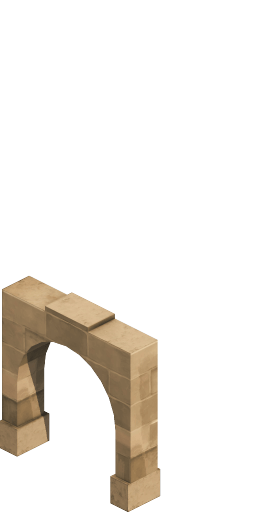
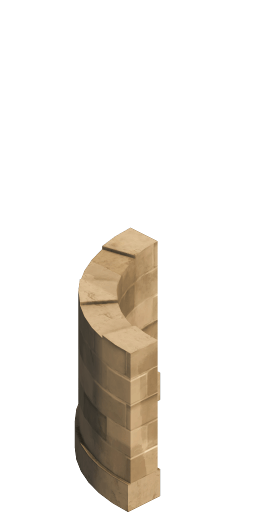
Round 8: 4-directional hops, batch hunt slots, HUD bars, panel layout
- Movement is strictly 4-directional: one axis per step, corners turn
  on separate ticks — cats hop tile to tile, no diagonal cutting
- Idle wander chance capped at 8%/tick so time-warp presets don't turn
  the colony into one-tile jitter; travel legs read clearly
- Leader fills every open hunt slot per tick (half the colony) instead
  of dispatching one cat per second
- Shrine sprite swapped to a round stone sanctum so it no longer looks
  like the wooden gate arch
- HUD food/water show capacity bars; right panel is full height with a
  dynamically-sized scrolling queue and action buttons pinned to the
  bottom right

Powered by human calories and mass GPU cycles.

Changed region(s): [[0.0, 0.4375, 0.6562, 1.0], [0.5, 0.875, 0.625, 0.9062]]

diff --git a/components/map/MapScreen.tsx b/components/map/MapScreen.tsx
@@ -219,8 +219,31 @@ export function MapScreen() {
 				</h1>
 
 				<div className="pointer-events-auto flex items-center gap-3 rounded-md border border-[#5d4024] bg-[#f3e6c8] px-4 py-1.5 text-sm font-bold text-[#4a3319] shadow-inner">
-					<span title="Food">🍖 {Math.floor(resources.food)}</span>
-					<span title="Water">💧 {Math.floor(resources.water)}</span>
+					<span title="Village food stores" className="flex items-center gap-1">
+						🍖 {Math.floor(resources.food)}
+						<span className="h-2 w-14 overflow-hidden rounded-full border border-[#5d4024]/50 bg-black/10">
+							<span
+								className="block h-full bg-emerald-600"
+								style={{
+									width: `${Math.min(100, (resources.food / 200) * 100)}%`,
+								}}
+							/>
+						</span>
+					</span>
+					<span
+						title="Village water stores"
+						className="flex items-center gap-1"
+					>
+						💧 {Math.floor(resources.water)}
+						<span className="h-2 w-14 overflow-hidden rounded-full border border-[#5d4024]/50 bg-black/10">
+							<span
+								className="block h-full bg-sky-600"
+								style={{
+									width: `${Math.min(100, (resources.water / 200) * 100)}%`,
+								}}
+							/>
+						</span>
+					</span>
 					<span title="Herbs">🌿 {Math.floor(resources.herbs)}</span>
 					<span title="Materials">🪵 {Math.floor(resources.materials)}</span>
 					<span title="Refined goods">
@@ -294,8 +317,9 @@ export function MapScreen() {
 			</header>
 
 			{/* Right action panel */}
-			<aside className="absolute bottom-3 right-3 top-24 z-10 flex w-72 max-w-[80vw] flex-col gap-2 overflow-y-auto">
-				<div className={`shrink-0 p-3 ${PANEL}`}>
+			<aside className="absolute bottom-3 right-3 top-24 z-10 flex w-72 max-w-[80vw] flex-col gap-2">
+				{/* Queue grows with its content, scrolls when it outgrows the column */}
+				<div className={`min-h-0 shrink overflow-y-auto p-3 ${PANEL}`}>
 					<h3 className={PANEL_HEADING}>Colony Work</h3>
 					{jobs.length === 0 ? (
 						<p className="text-sm text-[#6b4a2a]/70">Nothing in progress.</p>
@@ -470,7 +494,7 @@ export function MapScreen() {
 				)}
 
 				{/* Player zones: steer the cats */}
-				<div className={`p-3 ${PANEL}`}>
+				<div className={`mt-auto p-3 ${PANEL}`}>
 					<h3 className={PANEL_HEADING}>Zones</h3>
 					{zoneDraft ? (
 						<div className="text-xs font-semibold text-[#4a3319]">

diff --git a/server/game.ts b/server/game.ts
@@ -1608,15 +1608,19 @@ export function workerTick(db: GameDb) {
 			const busyIds = new Set(
 				activeJobs.map((job) => job.assignedCatId).filter(Boolean),
 			);
-			const idleHunter = aliveCats
+			const idleHunters = aliveCats
 				.filter(
 					(cat) =>
 						!busyIds.has(cat._id) &&
 						!cat.assignedBuildingId &&
 						(cat.activity ?? "idle") === "idle",
 				)
-				.sort((a, b) => b.stats.hunting - a.stats.hunting)[0];
-			if (idleHunter && canTakePolicyAction()) {
+				.sort((a, b) => b.stats.hunting - a.stats.hunting);
+			// Fill every open expedition slot this tick, one cat per job.
+			for (const hunter of idleHunters.slice(0, huntCap - activeHunts)) {
+				if (!canTakePolicyAction()) {
+					break;
+				}
 				queueJob(
 					tx,
 					colony._id,
@@ -1625,9 +1629,8 @@ export function workerTick(db: GameDb) {
 					upgrades,
 					runtime,
 					null,
-					idleHunter,
+					hunter,
 				);
-				busyIds.add(idleHunter._id);
 			}
 		}
 
@@ -2106,7 +2109,7 @@ export function workerTick(db: GameDb) {
 		// --- Movement pass: cats walk to job sites, come home, or wander.
 		// Cosmetic only — the economy stays on job timers above.
 		const movementElapsed = elapsedSec * runtime.timeScale;
-		const wanderChance = Math.min(0.5, 0.02 * elapsedSec);
+		const wanderChance = Math.min(0.08, 0.02 * elapsedSec);
 		for (const cat of getAliveCats(tx, colony._id)) {
 			const worldPos: WorldPos =
 				cat.position.map === "world"

diff --git a/tests/integration/serverGame.test.ts b/tests/integration/serverGame.test.ts
@@ -1331,18 +1331,22 @@ describe("cat movement", () => {
 			.where(eq(cats._id, traveler._id))
 			.run();
 
-		// Two legs: through the south gate first, then home.
-		advanceTime(db, 120);
-		workerTick(db);
-		advanceTime(db, 120);
-		workerTick(db);
-
-		const updated = getAliveCatsForTest(db, colony._id).find(
+		// Several legs: 4-directional hops through the south gate, then home.
+		// Stop as soon as it lands (idle cats wander off again afterwards).
+		let updated = getAliveCatsForTest(db, colony._id).find(
 			(cat) => cat._id === traveler._id,
 		)!;
+		for (let i = 0; i < 8; i++) {
+			advanceTime(db, 120);
+			workerTick(db);
+			updated = getAliveCatsForTest(db, colony._id).find(
+				(cat) => cat._id === traveler._id,
+			)!;
+			if (updated.position.x === 7 && updated.position.y === 7) {
+				break;
+			}
+		}
 		expect(updated.position).toEqual({ map: "world", x: 7, y: 7 });
-		expect(updated.activity).toBe("idle");
-		expect(updated.destination).toBeNull();
 	});
 
 	it("sends the worker home when its job completes", () => {

diff --git a/tests/unit/game/movement.test.ts b/tests/unit/game/movement.test.ts
@@ -18,14 +18,17 @@ describe("movement", () => {
 			expect(step.arrived).toBe(false);
 		});
 
-		it("spills leftover budget from x into y", () => {
+		it("turns corners on separate steps (no diagonal cutting)", () => {
 			const step = advanceMovement({ x: 0, y: 0 }, { x: 1, y: 5 }, 3, 1);
-			expect(step.position).toEqual({ x: 1, y: 2 });
+			expect(step.position).toEqual({ x: 1, y: 0 });
 			expect(step.arrived).toBe(false);
+			const next = advanceMovement(step.position, { x: 1, y: 5 }, 3, 1);
+			expect(next.position).toEqual({ x: 1, y: 3 });
 		});
 
 		it("arrives exactly at the destination without overshooting", () => {
-			const step = advanceMovement({ x: 0, y: 0 }, { x: 1, y: 1 }, 100, 1);
+			const leg = advanceMovement({ x: 0, y: 0 }, { x: 1, y: 1 }, 100, 1);
+			const step = advanceMovement(leg.position, { x: 1, y: 1 }, 100, 1);
 			expect(step.position).toEqual({ x: 1, y: 1 });
 			expect(step.arrived).toBe(true);
 		});

diff --git a/lib/game/movement.ts b/lib/game/movement.ts
@@ -38,17 +38,18 @@ export function advanceMovement(
 	elapsedSec: number,
 	speed: number = MOVE_SPEED_TILES_PER_SEC,
 ): MovementStep {
-	let budget = Math.max(0, elapsedSec) * speed;
+	const budget = Math.max(0, elapsedSec) * speed;
 	let { x, y } = position;
 
+	// Strictly 4-directional: one axis per step, x before y — cats hop
+	// tile to tile instead of cutting corners.
 	const dx = destination.x - x;
-	const stepX = Math.sign(dx) * Math.min(Math.abs(dx), budget);
-	x += stepX;
-	budget -= Math.abs(stepX);
-
-	const dy = destination.y - y;
-	const stepY = Math.sign(dy) * Math.min(Math.abs(dy), budget);
-	y += stepY;
+	if (dx !== 0) {
+		x += Math.sign(dx) * Math.min(Math.abs(dx), budget);
+	} else {
+		const dy = destination.y - y;
+		y += Math.sign(dy) * Math.min(Math.abs(dy), budget);
+	}
 
 	return {
 		position: { x, y },
